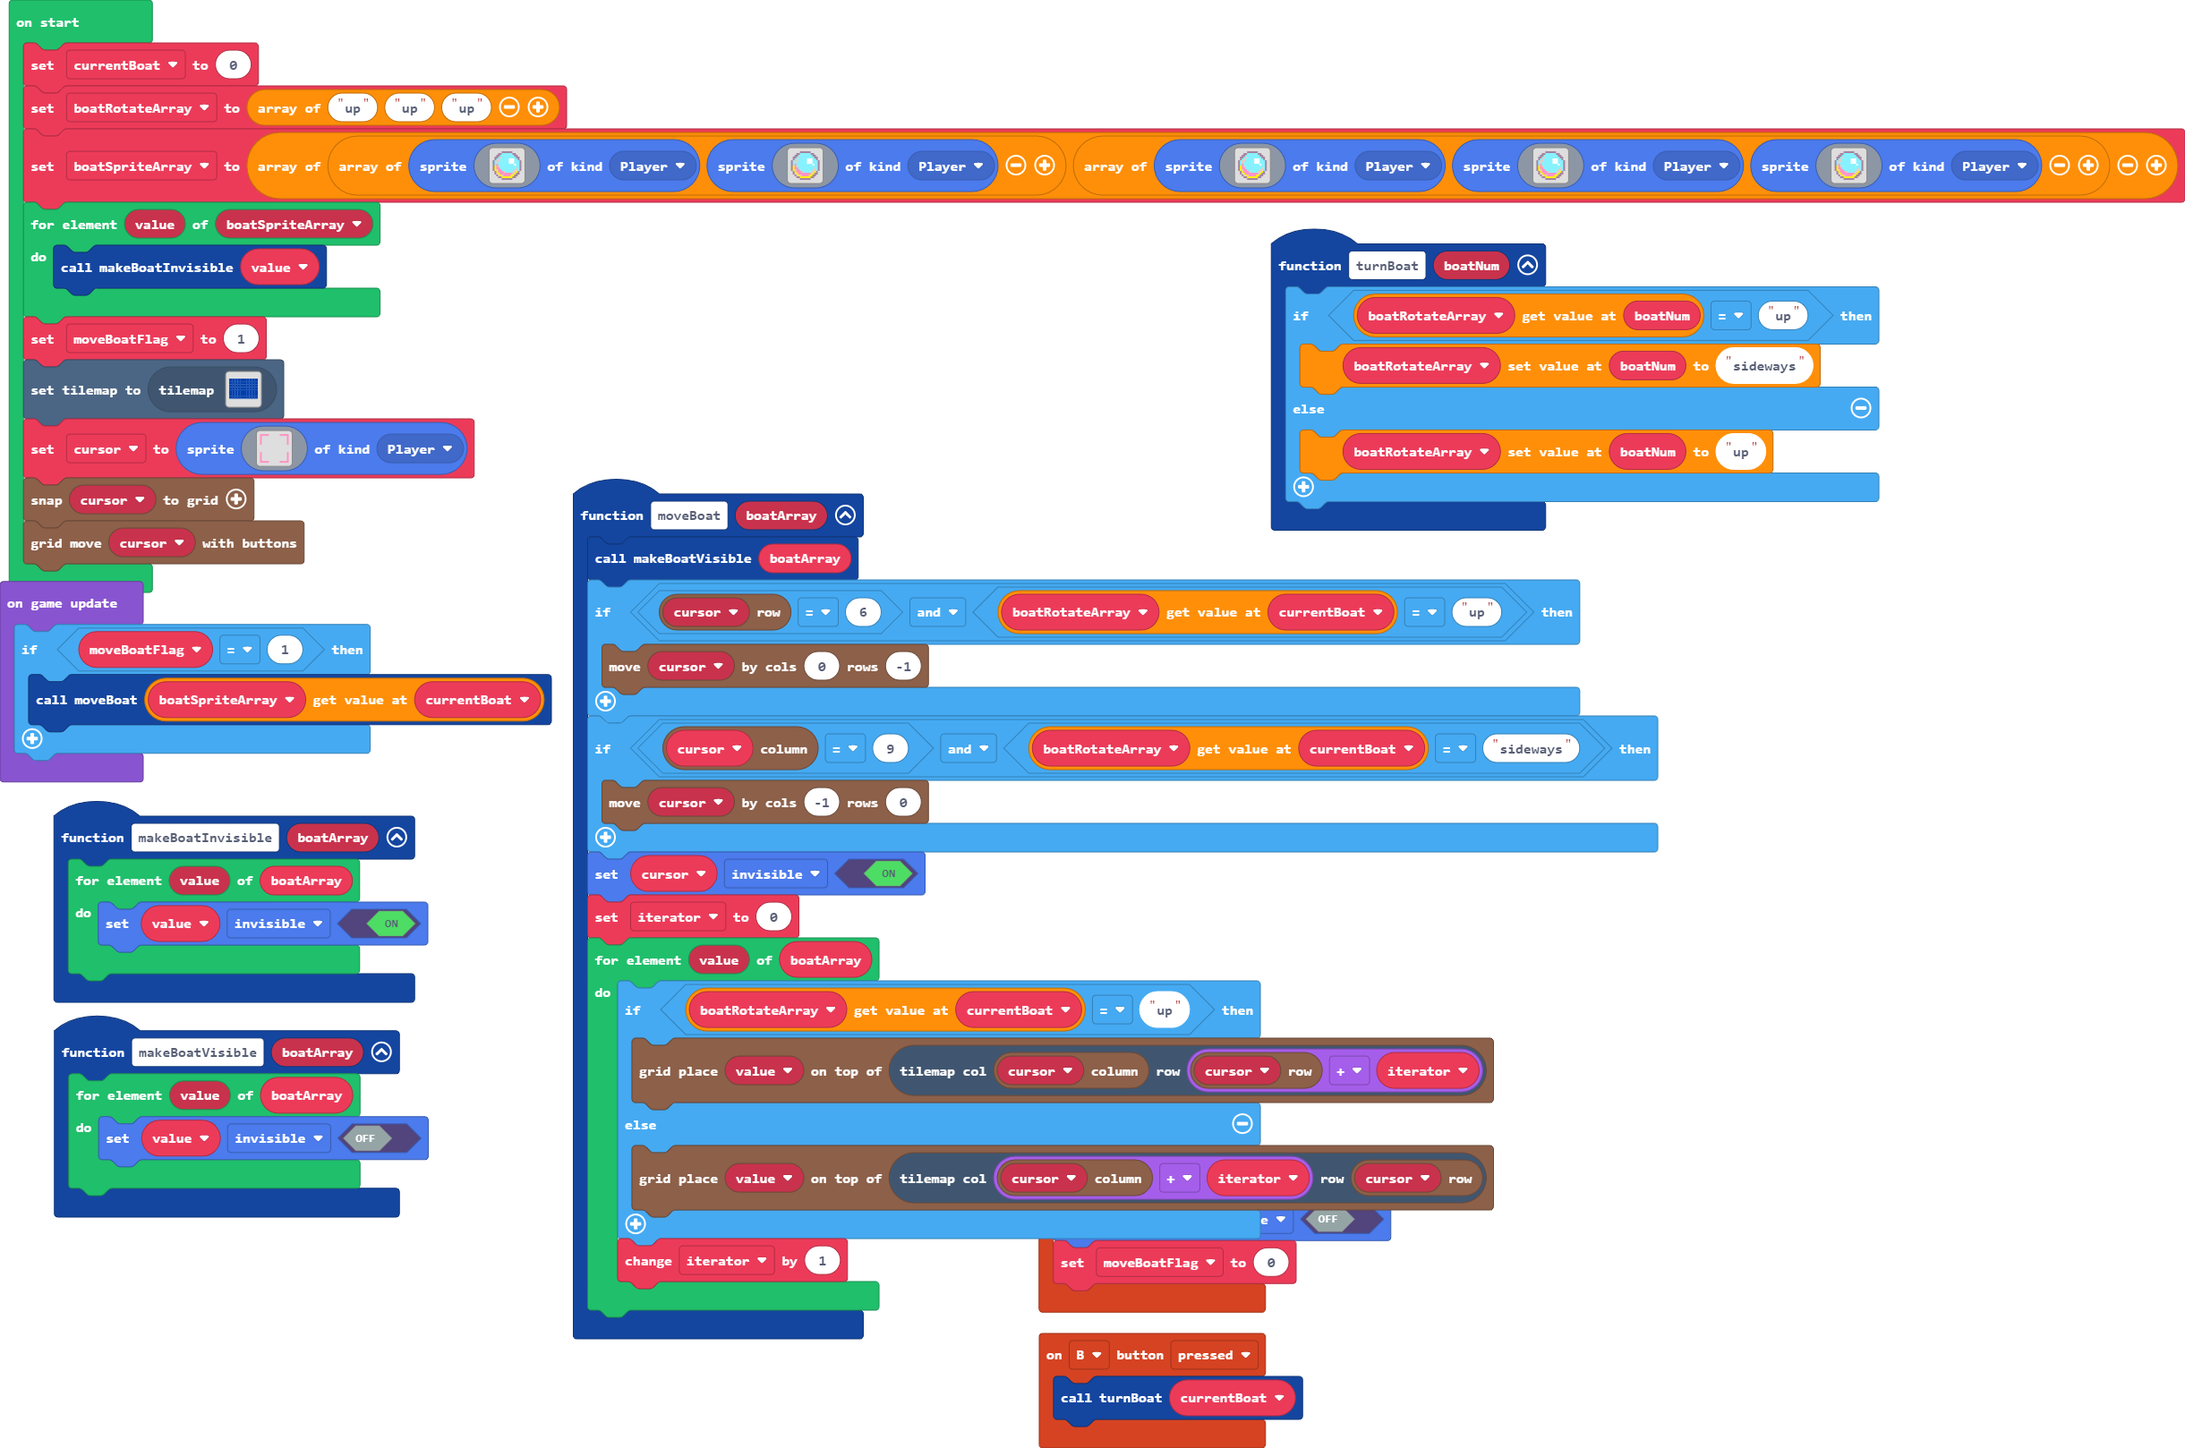
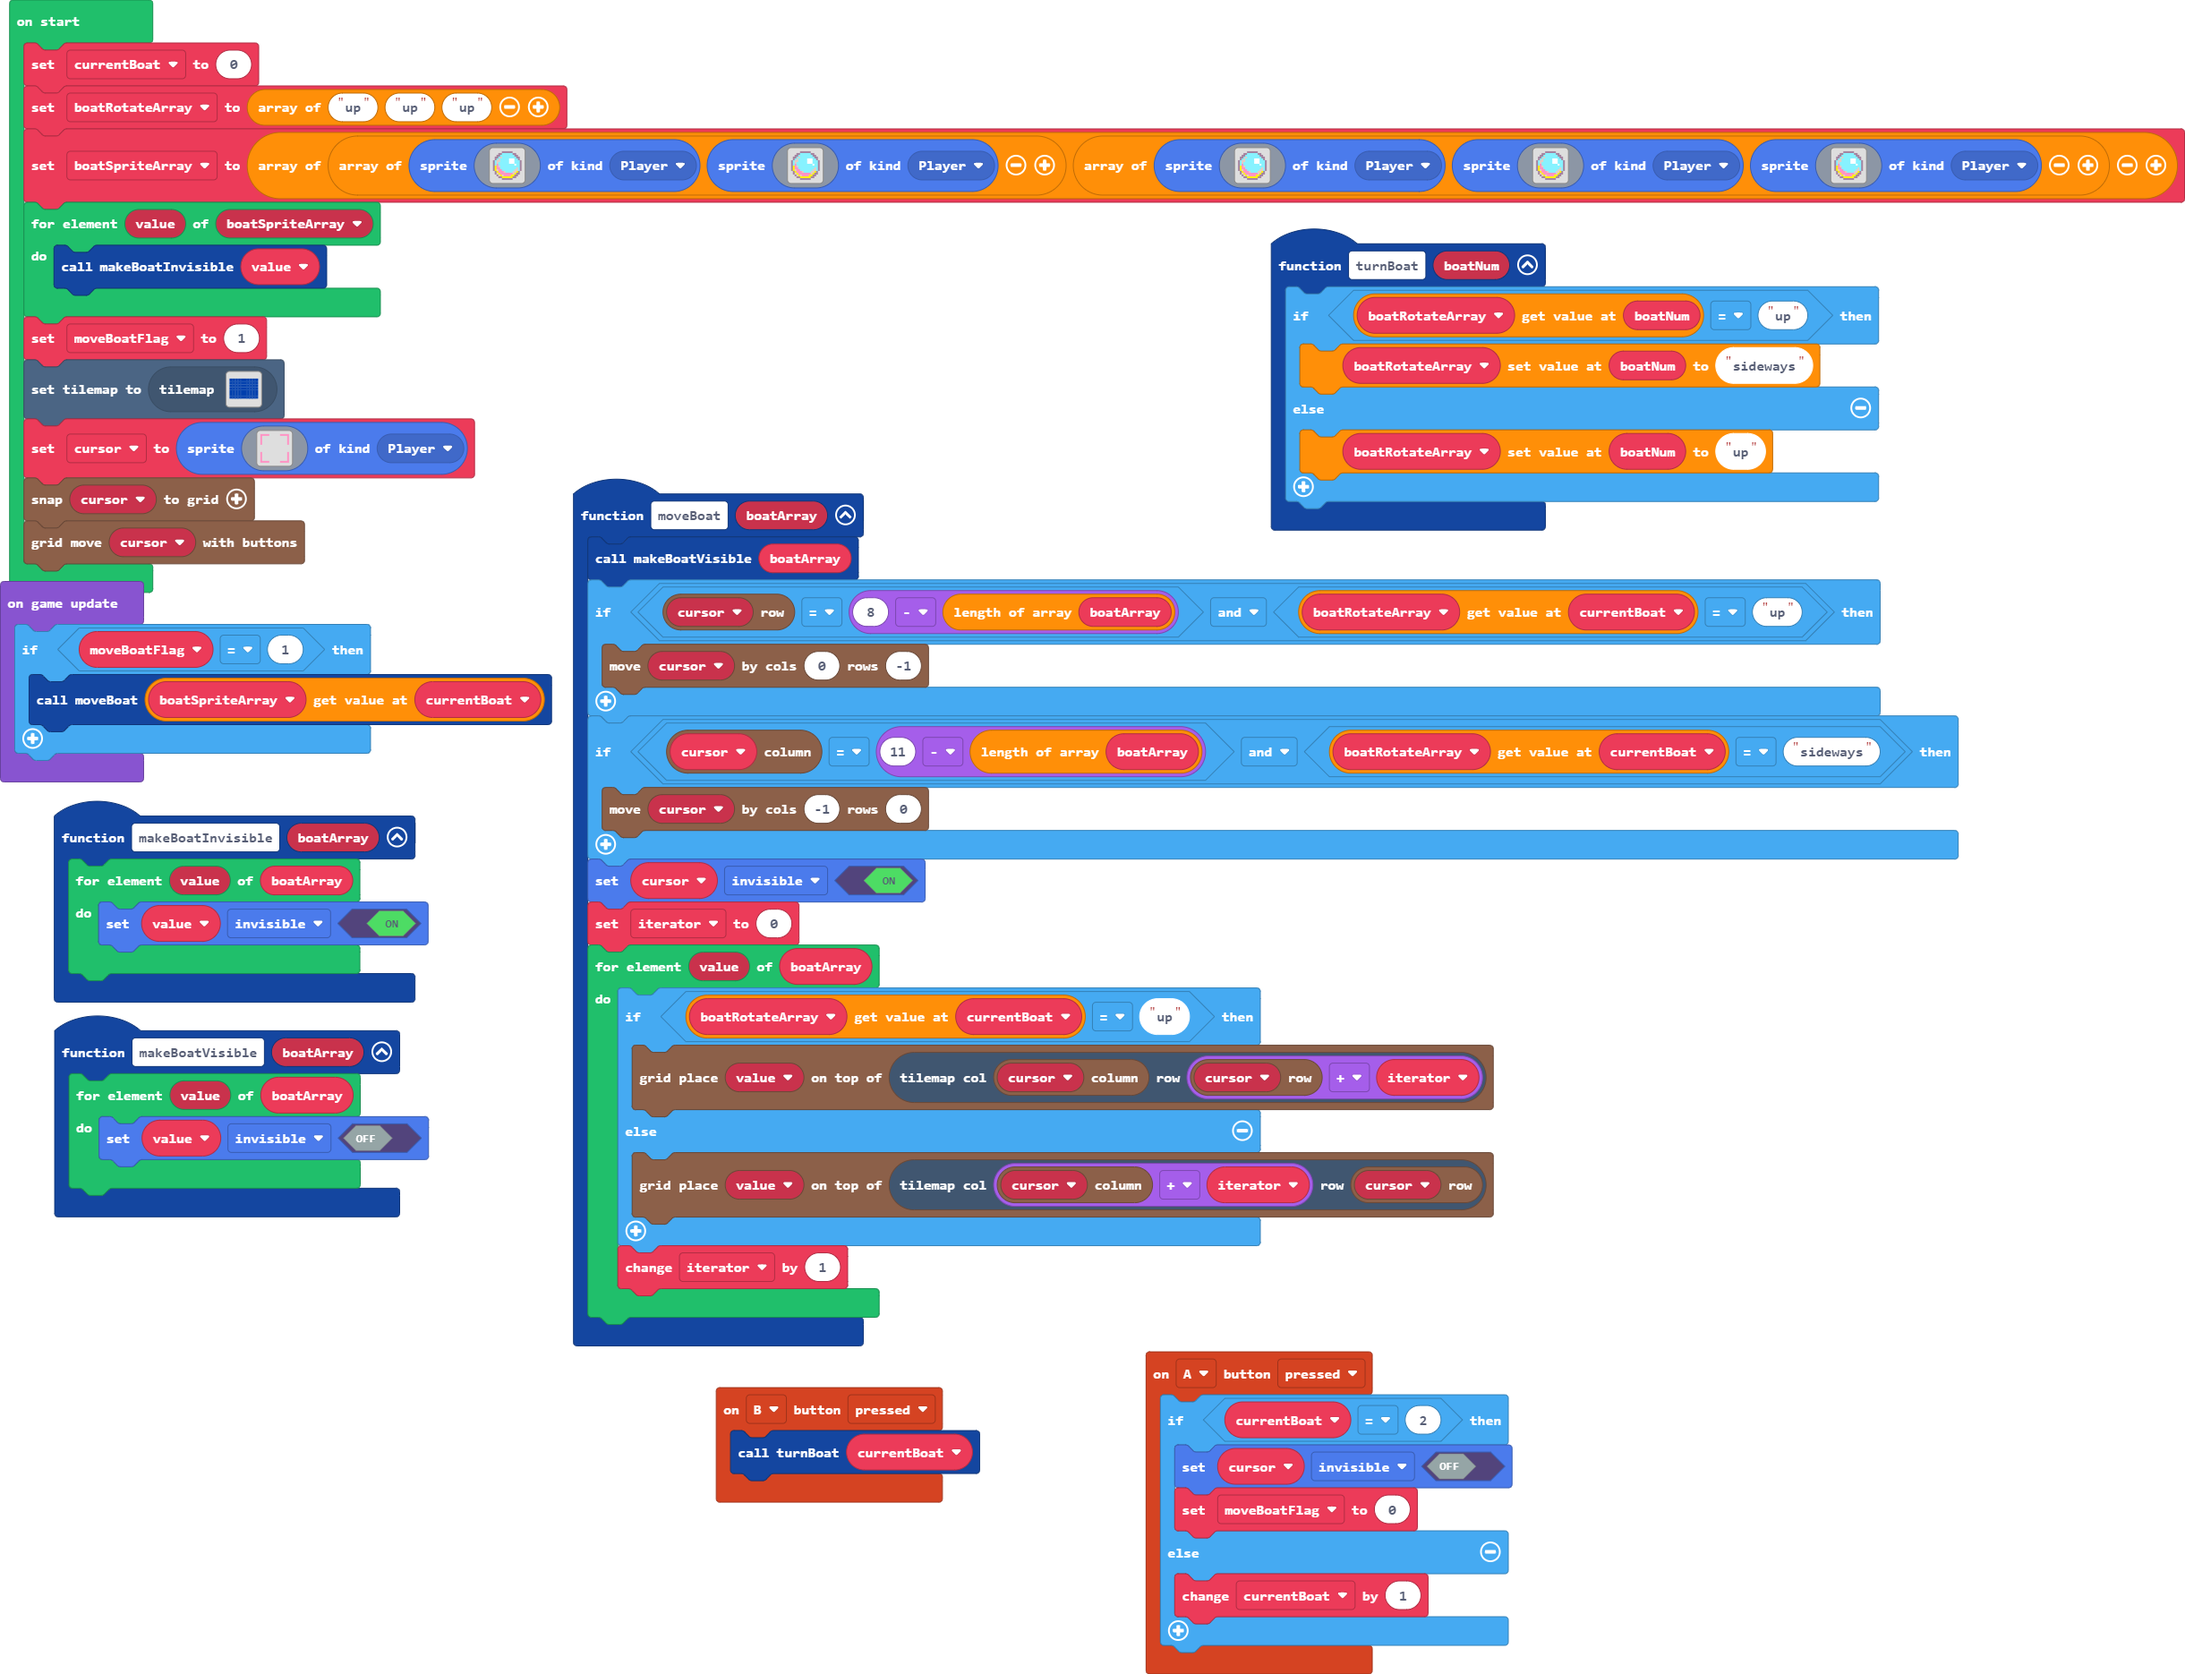
we can move boat "1"

diff --git a/main.ts b/main.ts
@@ -7,15 +7,19 @@ function makeBoatVisible (boatArray: Sprite[]) {
     }
 }
 controller.A.onEvent(ControllerButtonEvent.Pressed, function () {
-    cursor.setFlag(SpriteFlag.Invisible, false)
-    moveBoatFlag = 0
+    if (currentBoat == 2) {
+        cursor.setFlag(SpriteFlag.Invisible, false)
+        moveBoatFlag = 0
+    } else {
+        currentBoat += 1
+    }
 })
 function moveBoat (boatArray: any[]) {
     makeBoatVisible(boatArray)
-    if (grid.spriteRow(cursor) == 6 && boatRotateArray[currentBoat] == "up") {
+    if (grid.spriteRow(cursor) == 8 - boatArray.length && boatRotateArray[currentBoat] == "up") {
         grid.move(cursor, 0, -1)
     }
-    if (grid.spriteCol(cursor) == 9 && boatRotateArray[currentBoat] == "sideways") {
+    if (grid.spriteCol(cursor) == 11 - boatArray.length && boatRotateArray[currentBoat] == "sideways") {
         grid.move(cursor, -1, 0)
     }
     cursor.setFlag(SpriteFlag.Invisible, true)
